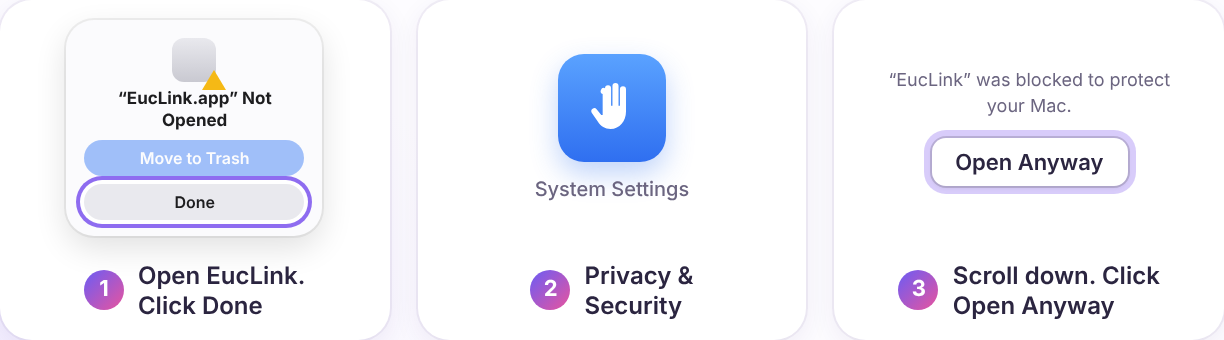
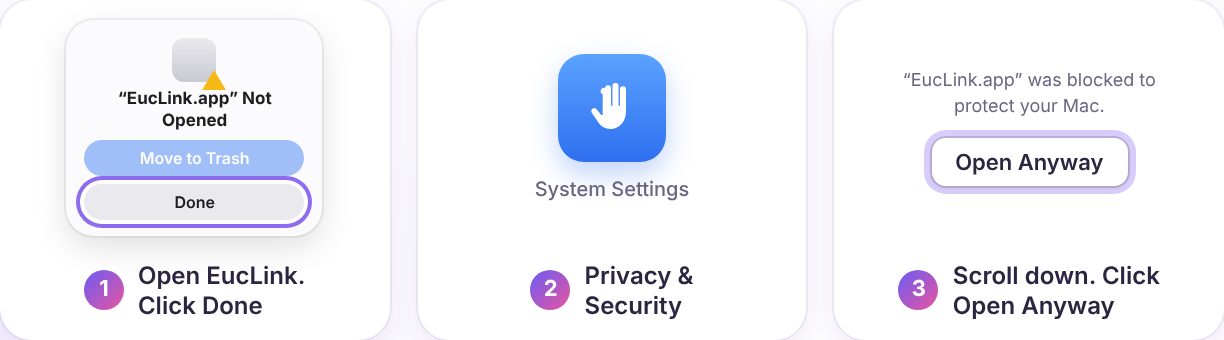
Match the Open Anyway drawing to the wording macOS shows
macOS says "EucLink.app" was blocked to protect your Mac. The disk image window
and the README's first-launch picture now use the same words.

Changed region(s): [[0.7141, 0.2059, 0.9624, 0.2647], [0.7761, 0.2941, 0.9003, 0.3529]]

diff --git a/dmg/background.html b/dmg/background.html
@@ -48,7 +48,7 @@ body{width:660px;height:500px;font-family:Inter,-apple-system,sans-serif;color:#
   <div class="card"><div class="art"><div class="pv"><div class="pvi"><svg width="28" height="28" viewBox="0 0 24 24" fill="#fff"><path d="M9 3.5a1.3 1.3 0 0 1 2.6 0V11h.6V2.6a1.3 1.3 0 0 1 2.6 0V11h.6V4a1.3 1.3 0 0 1 2.6 0v9.5c0 4-2.7 7.5-6.6 7.5-2.4 0-4.2-1.2-5.5-3.2L3.3 14a1.3 1.3 0 0 1 2.1-1.5L7.4 15H8V6a1.3 1.3 0 0 1 1-2.5z"/></svg></div>
       <div class="path">System Settings</div></div></div>
     <div class="cap"><span class="n">2</span><span>Privacy &amp;<br>Security</span></div></div>
-  <div class="card"><div class="art"><div class="oa"><div class="msg">“EucLink” was blocked to protect your Mac.</div><div class="btn">Open Anyway</div></div></div>
+  <div class="card"><div class="art"><div class="oa"><div class="msg">“EucLink.app” was blocked to protect your Mac.</div><div class="btn">Open Anyway</div></div></div>
     <div class="cap"><span class="n">3</span><span>Scroll down. Click<br>Open Anyway</span></div></div>
 </div>
 </body></html>
